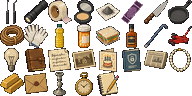
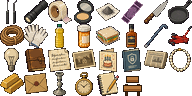
지하 탈출 어렵게, 제한 시간 약 10분, 곽두철 밀고 지나가기, 첫 화면에서 곽두철 숨기기
- 시계가 두 배 빨라서 게임 속 20분이 실제로는 약 10분.
- 혼자 석탄 구멍으로 나가려면 식료품 창고의 발판을 딛어야 한다 (구멍이 높다).
  잭으로 받치는 시간은 15초로 늘었고, 5초마다 쇳소리가 나서 14칸 안의 곽두철이 듣는다.
- 곽두철은 꽤 믿는 사이(호감 60)가 돼야 석탄 구멍을 알려 준다 (전에는 45).
- 곽두철 쪽으로 방향키를 꾹 누르면 "아이씨, 왜 밀어!" 하며 자리를 바꿔 비켜 준다.
  호감 2 (15초에 한 번만). 쫓아올 때는 안 비키고, 쓰러져 있으면 넘어간다.
- 첫 화면 소개를 "잠긴 별장에 갇힌 좀도둑."으로, 그림은 창문 속 실루엣을 지운 것으로.
- 자동 시험에 혼자 잭으로 나가기, 밀고 지나가기를 넣었다.

Changed region(s): [[0.625, 0.7812, 0.75, 1.0]]

diff --git a/tools/draw_extra.py b/tools/draw_extra.py
@@ -1,0 +1,64 @@
+"""VARCO 로 못 뽑은 작은 그림을 가구 색에 맞춰 직접 찍는다 (art_src/ 에 둔다).
+
+    python tools/draw_extra.py
+"""
+import os
+
+from PIL import Image
+
+ROOT = os.path.dirname(os.path.dirname(os.path.abspath(__file__)))
+SRC = os.path.join(ROOT, "art_src")
+
+# 작은 탁자 그림에서 뽑은 나무 색
+LINE = (43, 26, 12, 255)
+DARK = (72, 40, 20, 255)
+MID = (147, 85, 35, 255)
+LIGHT = (164, 99, 43, 255)
+HI = (186, 124, 62, 255)
+
+
+def rect(p, x0, y0, x1, y1, col):
+    for y in range(y0, y1 + 1):
+        for x in range(x0, x1 + 1):
+            p[x, y] = col
+
+
+def box(p, x0, y0, x1, y1, top, face):
+    """윤곽선이 있는 나무 판: 윗면(밝게)과 앞면."""
+    rect(p, x0, y0, x1, y1, LINE)
+    rect(p, x0 + 1, y0 + 1, x1 - 1, y0 + 1 + top, HI)
+    rect(p, x0 + 1, y0 + 2 + top, x1 - 1, y1 - 1, face)
+
+
+def stool(w, h, s):
+    """두 칸짜리 나무 발판. s: 크기 배율 (32px 칸은 1, 아이콘은 0.75)."""
+    img = Image.new("RGBA", (w, h), (0, 0, 0, 0))
+    p = img.load()
+
+    def S(v):
+        return int(round(v * s))
+    ox = (w - S(24)) // 2
+    oy = h - S(26)
+    # 다리 넷
+    for lx in (2, 19):
+        rect(p, ox + S(lx), oy + S(10), ox + S(lx) + S(3), oy + S(25), LINE)
+        rect(p, ox + S(lx) + 1, oy + S(11), ox + S(lx) + S(3) - 1, oy + S(24), DARK)
+    # 뒤 칸 (높은 칸)
+    box(p, ox + S(4), oy, ox + S(20), oy + S(8), max(1, S(2)), MID)
+    # 앞 칸 (낮은 칸)
+    box(p, ox, oy + S(12), ox + S(24), oy + S(20), max(1, S(2)), LIGHT)
+    # 앞 칸 앞면의 나뭇결 한 줄
+    rect(p, ox + S(3), oy + S(17), ox + S(21), oy + S(17), MID)
+    return img
+
+
+def main():
+    os.makedirs(os.path.join(SRC, "props"), exist_ok=True)
+    os.makedirs(os.path.join(SRC, "icons"), exist_ok=True)
+    stool(32, 32, 1.0).save(os.path.join(SRC, "props", "stool.png"))
+    stool(24, 24, 0.75).save(os.path.join(SRC, "icons", "stool.png"))
+    print("stool ok")
+
+
+if __name__ == "__main__":
+    main()

diff --git a/tools/build_art.py b/tools/build_art.py
@@ -291,7 +291,7 @@ PROPS_KENNEY = {
 }
 # VARCO 로만 있는 것 (옛 그림이 없다)
 PROPS_NEW = ["floor_lamp", "sconce", "table_lamp", "coat_stand", "shoe_rack", "umbrella_stand", "tv_off",
-             "on_notepad"]
+             "on_notepad", "stool"]
 # 같은 그림을 쓰는 것
 PROP_ALIAS = {"hedge_l": "hedge", "hedge_r": "hedge"}
 
@@ -352,7 +352,7 @@ def build_props():
 
 ITEMS = ["lockpick", "flashlight", "tape", "compact", "ash", "fingerprint", "knife", "pan", "rope", "gloves",
          "oil", "pills", "sandwich", "whiskey", "crowbar", "jack", "bulb", "diary", "memo", "photo",
-         "card", "manual", "newspaper", "necklace", "gold", "cash", "silver_candle", "watch", "notebook"]
+         "card", "manual", "newspaper", "necklace", "gold", "cash", "silver_candle", "watch", "notebook", "stool"]
 ICON = 24
 
 

diff --git a/tools/webdrive.py b/tools/webdrive.py
@@ -48,7 +48,7 @@ KEYS = {
     "ArrowUp": ("ArrowUp", "ArrowUp", 38), "ArrowDown": ("ArrowDown", "ArrowDown", 40),
     "ArrowLeft": ("ArrowLeft", "ArrowLeft", 37), "ArrowRight": ("ArrowRight", "ArrowRight", 39),
     "Enter": ("Enter", "Enter", 13), "Escape": ("Escape", "Escape", 27), "Shift": ("Shift", "ShiftLeft", 16),
-    "Tab": ("Tab", "Tab", 9), "Space": (" ", "Space", 32),
+    "Tab": ("Tab", "Tab", 9), "Space": (" ", "Space", 32), "Period": (".", "Period", 190),
 }
 
 

diff --git a/tools/varco_cut.py b/tools/varco_cut.py
@@ -270,7 +270,7 @@ def cut_walls(sid):
 
 def cut_title():
     # 두 장 가운데 왼쪽 하늘이 넓어 제목 자리가 나는 두 번째 것
-    img = load("TITLE_1")
+    img = load("TITLE_1_clean")   # 창문 속 실루엣을 지운 것 (숨어 있는 사람을 첫 화면에서 드러내지 않게)
     t = img.resize((640, 360), Image.LANCZOS).convert("RGBA")
     save(reduce_colors(t, 64), "title_bg.png")
     print("TITLE: 첫 화면")

diff --git a/docs/design.md b/docs/design.md
@@ -11,7 +11,7 @@
 | 잠긴 대저택에서 탈출, 도트, 아오오니 같은 조작 | 1층, 2층, 지하 방 15개. VARCO 로 뽑은 32px 도트 그림 (방마다 바닥과 벽지, 밤의 불빛), 칸 단위 이동 |
 | 방범 장치가 작동하면 모든 출입구와 창문이 철문으로 막힘 | 경보가 울리면 뒷문, 현관, 창문에 셔터가 내려온다 |
 | 문을 열려면 노부부의 지문이나 패스워드 | 현관 보안 단말기: 비밀번호 여섯 자리 또는 집주인 지문 |
-| 제한 시간: 경찰 도착까지 (현실 20~30분) | 게임 속 20분 (시계가 1.5배 빨라 실제로는 약 13분). 대화 중에는 시간이 멈춘다. 15분부터 사이렌 |
+| 제한 시간: 경찰 도착까지 (현실 20~30분) | 게임 속 20분 (시계가 두 배 빨라 실제로는 약 10분). 대화 중에는 시간이 멈춘다. 15분부터 사이렌 |
 | 범죄자도 탈출이 목표, 자료를 모으며 다님, 플레이어가 못 얻게 되는 도구가 생김 | 곽두철이 식칼, 쇠지렛대, 잭을 먼저 챙긴다. 기절시키거나 같이 가면 되찾는다 |
 | 마주치면 말 걸기, 먼저 공격, 공격당하기 | 첫 만남 선택지 (솔직하게, 거짓말, 겁주기, 무기로 치기). 적이 되면 쫓아온다 |
 | 협력하면 정보와 도구 공유, 호감도, 배신 가능 | 같이 가면 따라다니며 대화, 부탁, 석탄 구멍 정보. 호감도. 양쪽 다 배신 가능 |
@@ -30,6 +30,8 @@
                        함정: 회중시계 각인 "1974. 10. 3. 처음 만난 날"
 현관 지문             ← 위스키 잔 또는 돋보기안경 + 분첩(또는 벽난로 재) + 투명 테이프
 지하 석탄 구멍        ← 곽두철이 들어온 길. 쇠창살이 무거워 둘이 들거나 자동차 잭으로 받친다
+                       혼자면 구멍이 높아 식료품 창고의 발판을 딛어야 올라간다.
+                       잭으로 받치는 15초 동안 5초마다 쇳소리가 나서 14칸 안의 곽두철이 듣는다
 금고 0823             ← 일기 "금고 번호는 지훈이 생일" + 생일 카드 "8월 23일 생일 아침"
 ```
 비밀번호는 세 번 틀리면 1분 잠긴다. 곽두철이 번호판을 마구 누르다 잠가 버리기도 한다.
@@ -55,9 +57,10 @@
 
 ### 보고 듣기
 눈앞 반원, 8칸, 같은 방. 뛰는 발소리와 헛딴 자물쇠 소리는 들린다. 옷장, 침대 밑, 욕조 커튼 뒤에 숨을 수 있지만 숨는 걸 들키면 찾아낸다. 적이 된 곽두철에게 한 번 붙잡히면 연타로 뿌리칠 기회가 있고, 두 번째는 끝이다.
+같은 편이거나 남남인 곽두철이 길을 막으면 그쪽으로 방향키를 꾹 눌러 밀고 지나간다. "아이씨, 왜 밀어!" 하며 자리를 바꿔 주고 호감이 2 내려간다 (15초에 한 번만). 쫓아올 때는 안 비키고, 쓰러져 있으면 넘어간다.
 
 ### 호감도 (같이 가기로 한 뒤)
-시작: 솔직하게 50, 거짓말 30, 겁주기 25. 60 이상이면 "꽤 믿는 사이".
+시작: 솔직하게 50, 거짓말 30, 겁주기 25. 60 이상이면 "꽤 믿는 사이"이고, 그때부터 물으면 석탄 구멍을 알려 준다.
 | 오르는 일 | 내리는 일 |
 |---|---|
 | 샌드위치 +10, 위스키 +5 | 훔친 것을 안 나눔 -15 |
